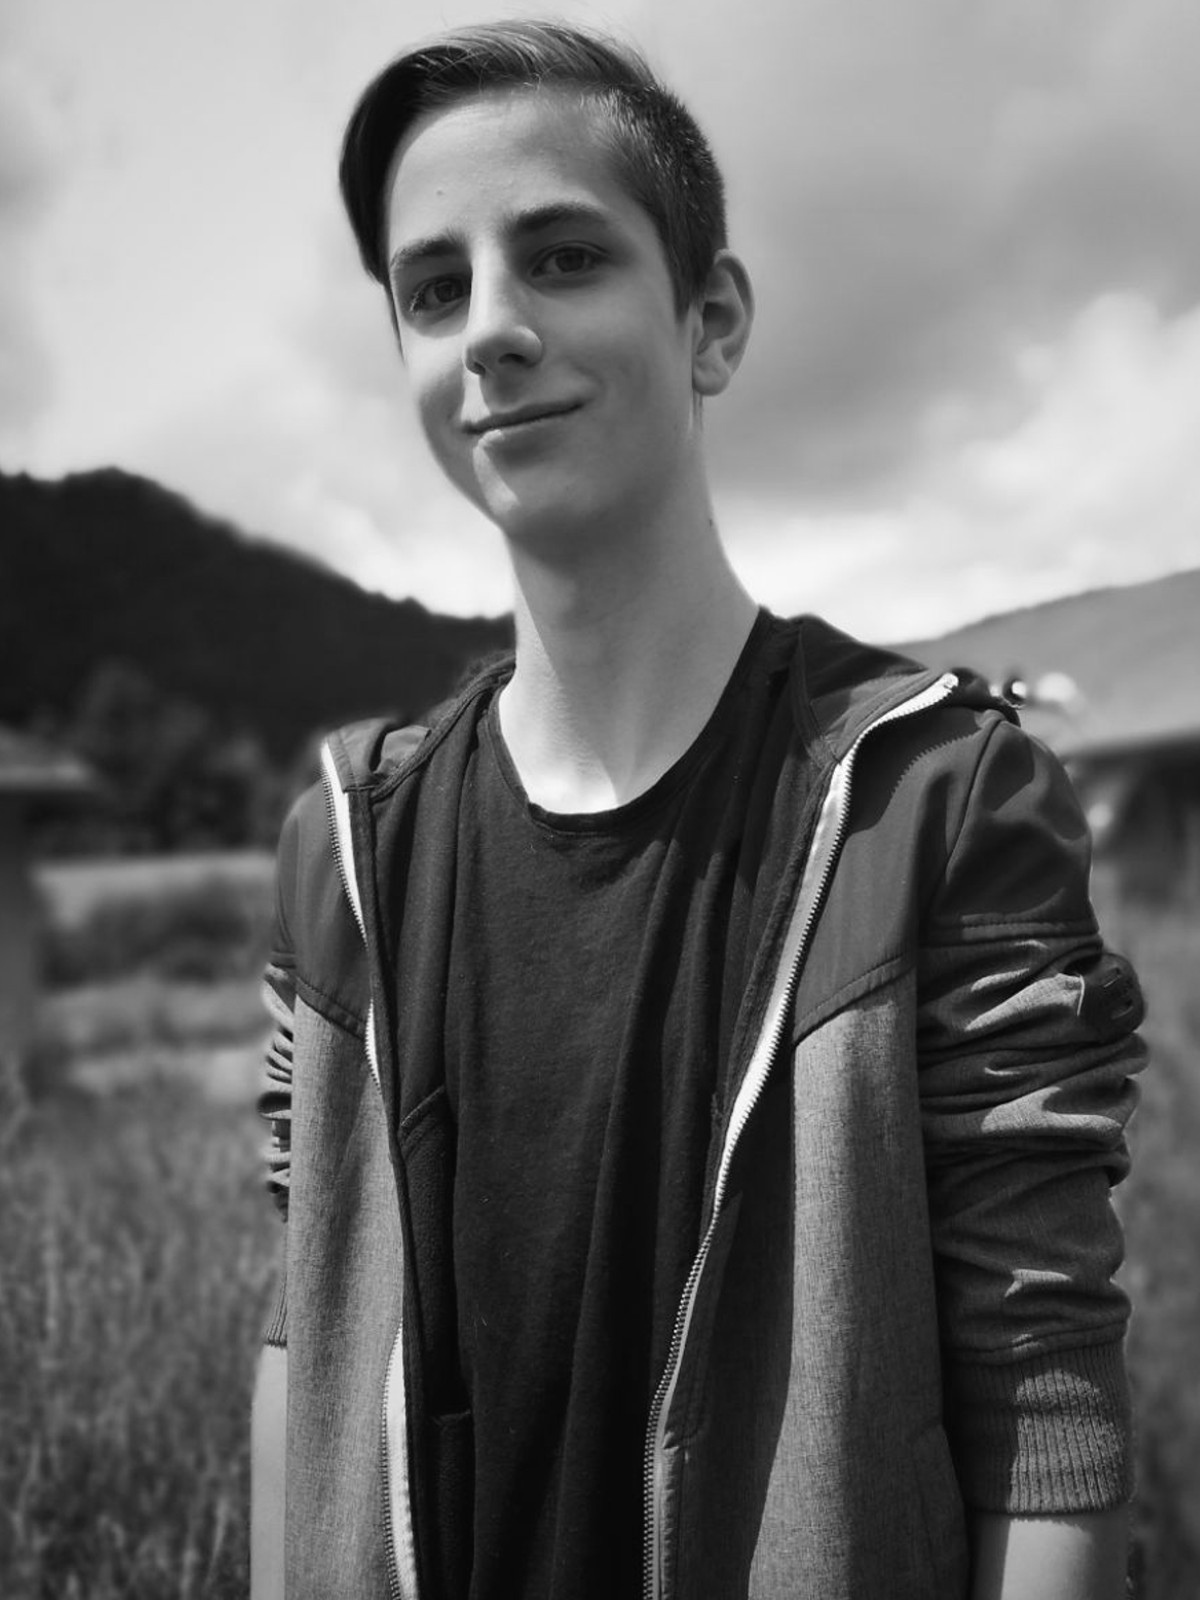
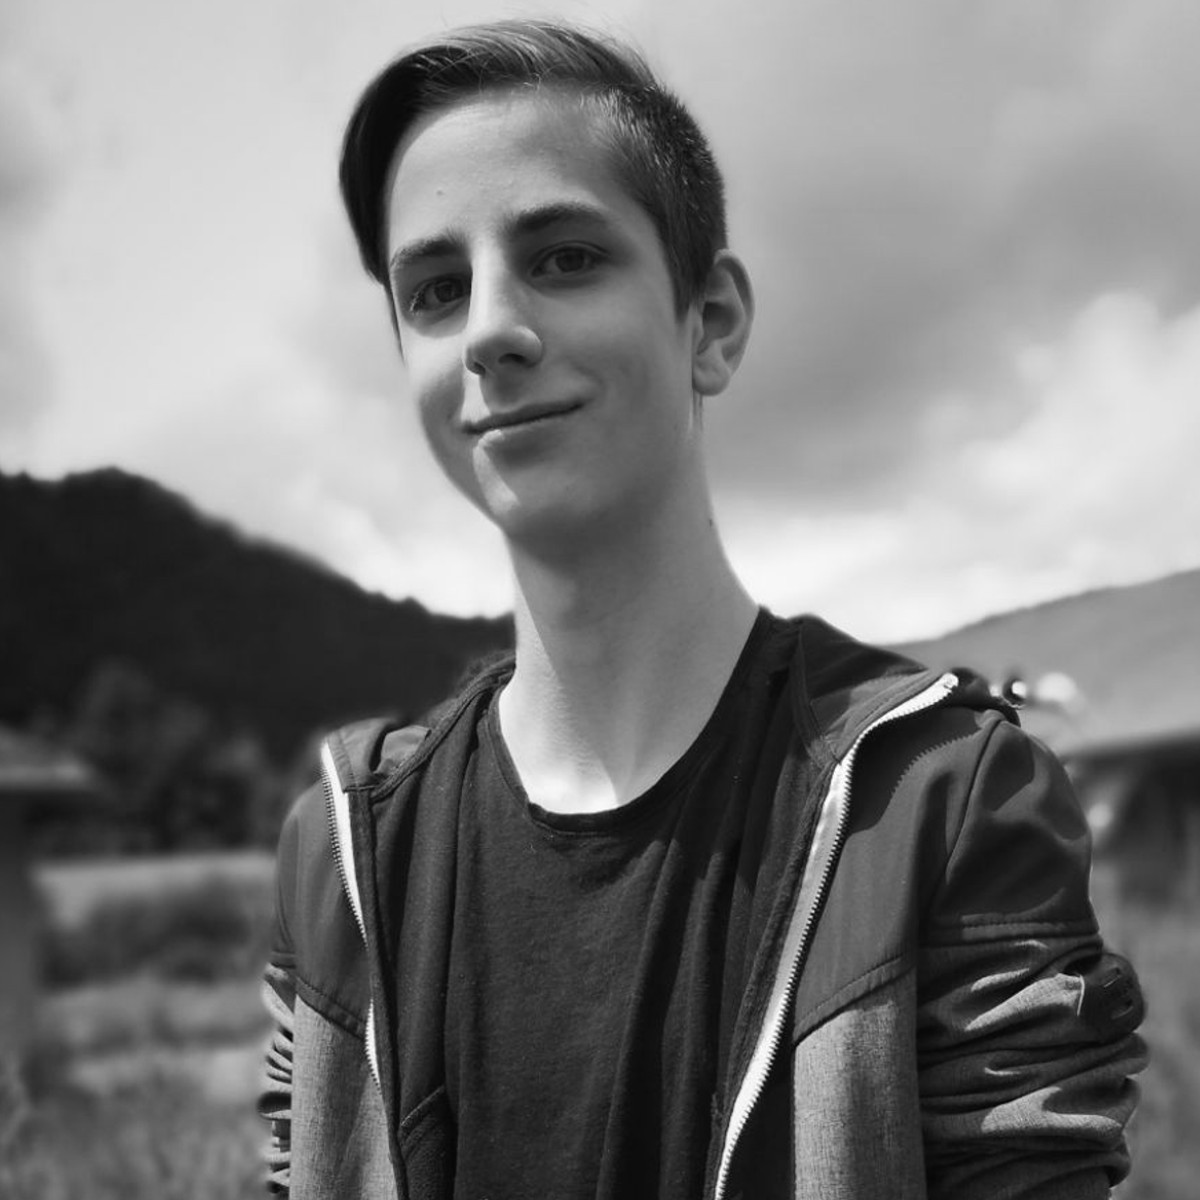
Magical update!

diff --git a/index.html b/index.html
@@ -22,7 +22,7 @@
         <meta name="google-site-verification" content="gQq7Tyk517LMGucj8_cQhgh-EidtsQqM8itOS0qex9Q">
 
         <meta property="og:title" content="Lukas Eder">
-        <meta property="og:image" content="https://lukased.github.io/img/logo/logo-black.png">
+        <meta property="og:image" content="https://lukased.github.io/img/avatar/avatar.jpg">
         <meta property="og:description" content="The internet presence of Lukas Eder.">
         <meta property="og:url" content="http://lukased.de">
 
